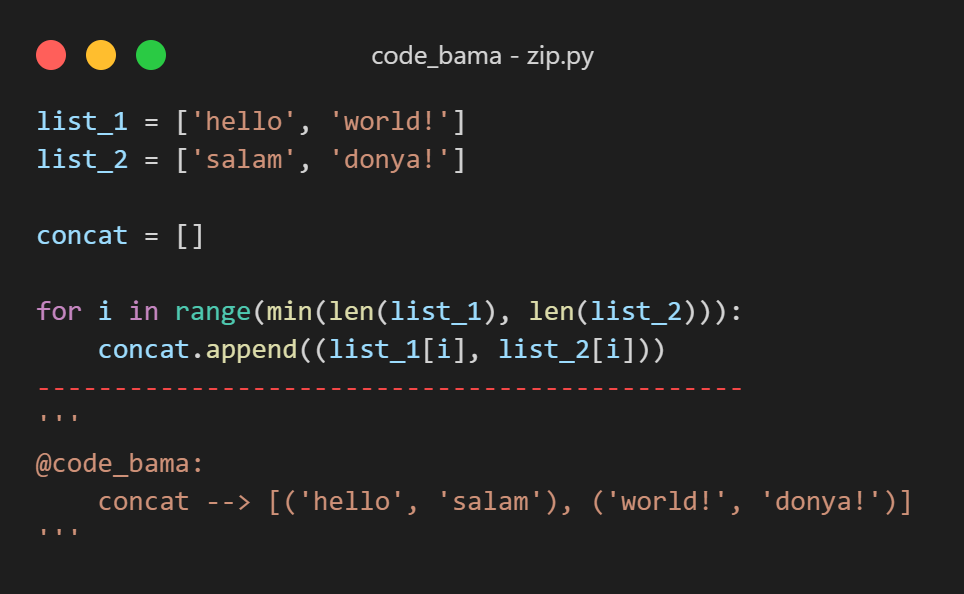
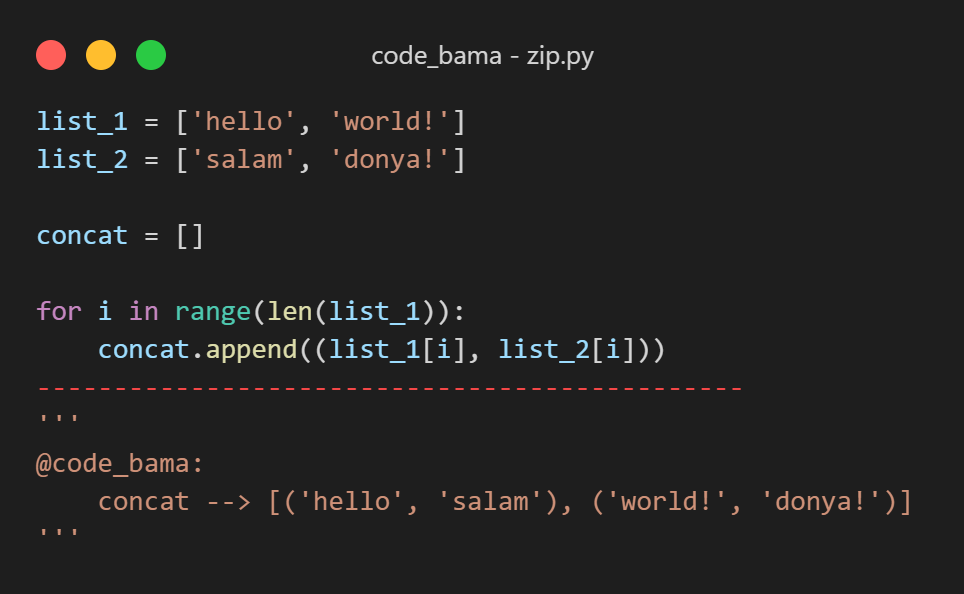
Update zip.py

Changed region(s): [[0.3423, 0.4848, 0.778, 0.5455], [0.2801, 0.5152, 0.3112, 0.5455]]

diff --git a/Code/zip.py b/Code/zip.py
@@ -3,7 +3,7 @@ list_2 = ['salam', 'donya!']
 
 concat = []
 
-for i in range(min(len(list_1), len(list_2))):
+for i in range(len(list_1)):
     concat.append((list_1[i], list_2[i]))
 # ----------------------------------------------
 '''
@@ -24,6 +24,8 @@ for i in range(min(len(list_1), len(list_2))):
     concat --> [('hello', 'salam'), ('world!', 'donya!')]
 '''
 
+list_1 = ['hello', 'world!', 'code_bama']
+list_2 = ['salam', 'donya!']
 
 result = list(zip(list_1, list_2))
 # ----------------------------------------------
